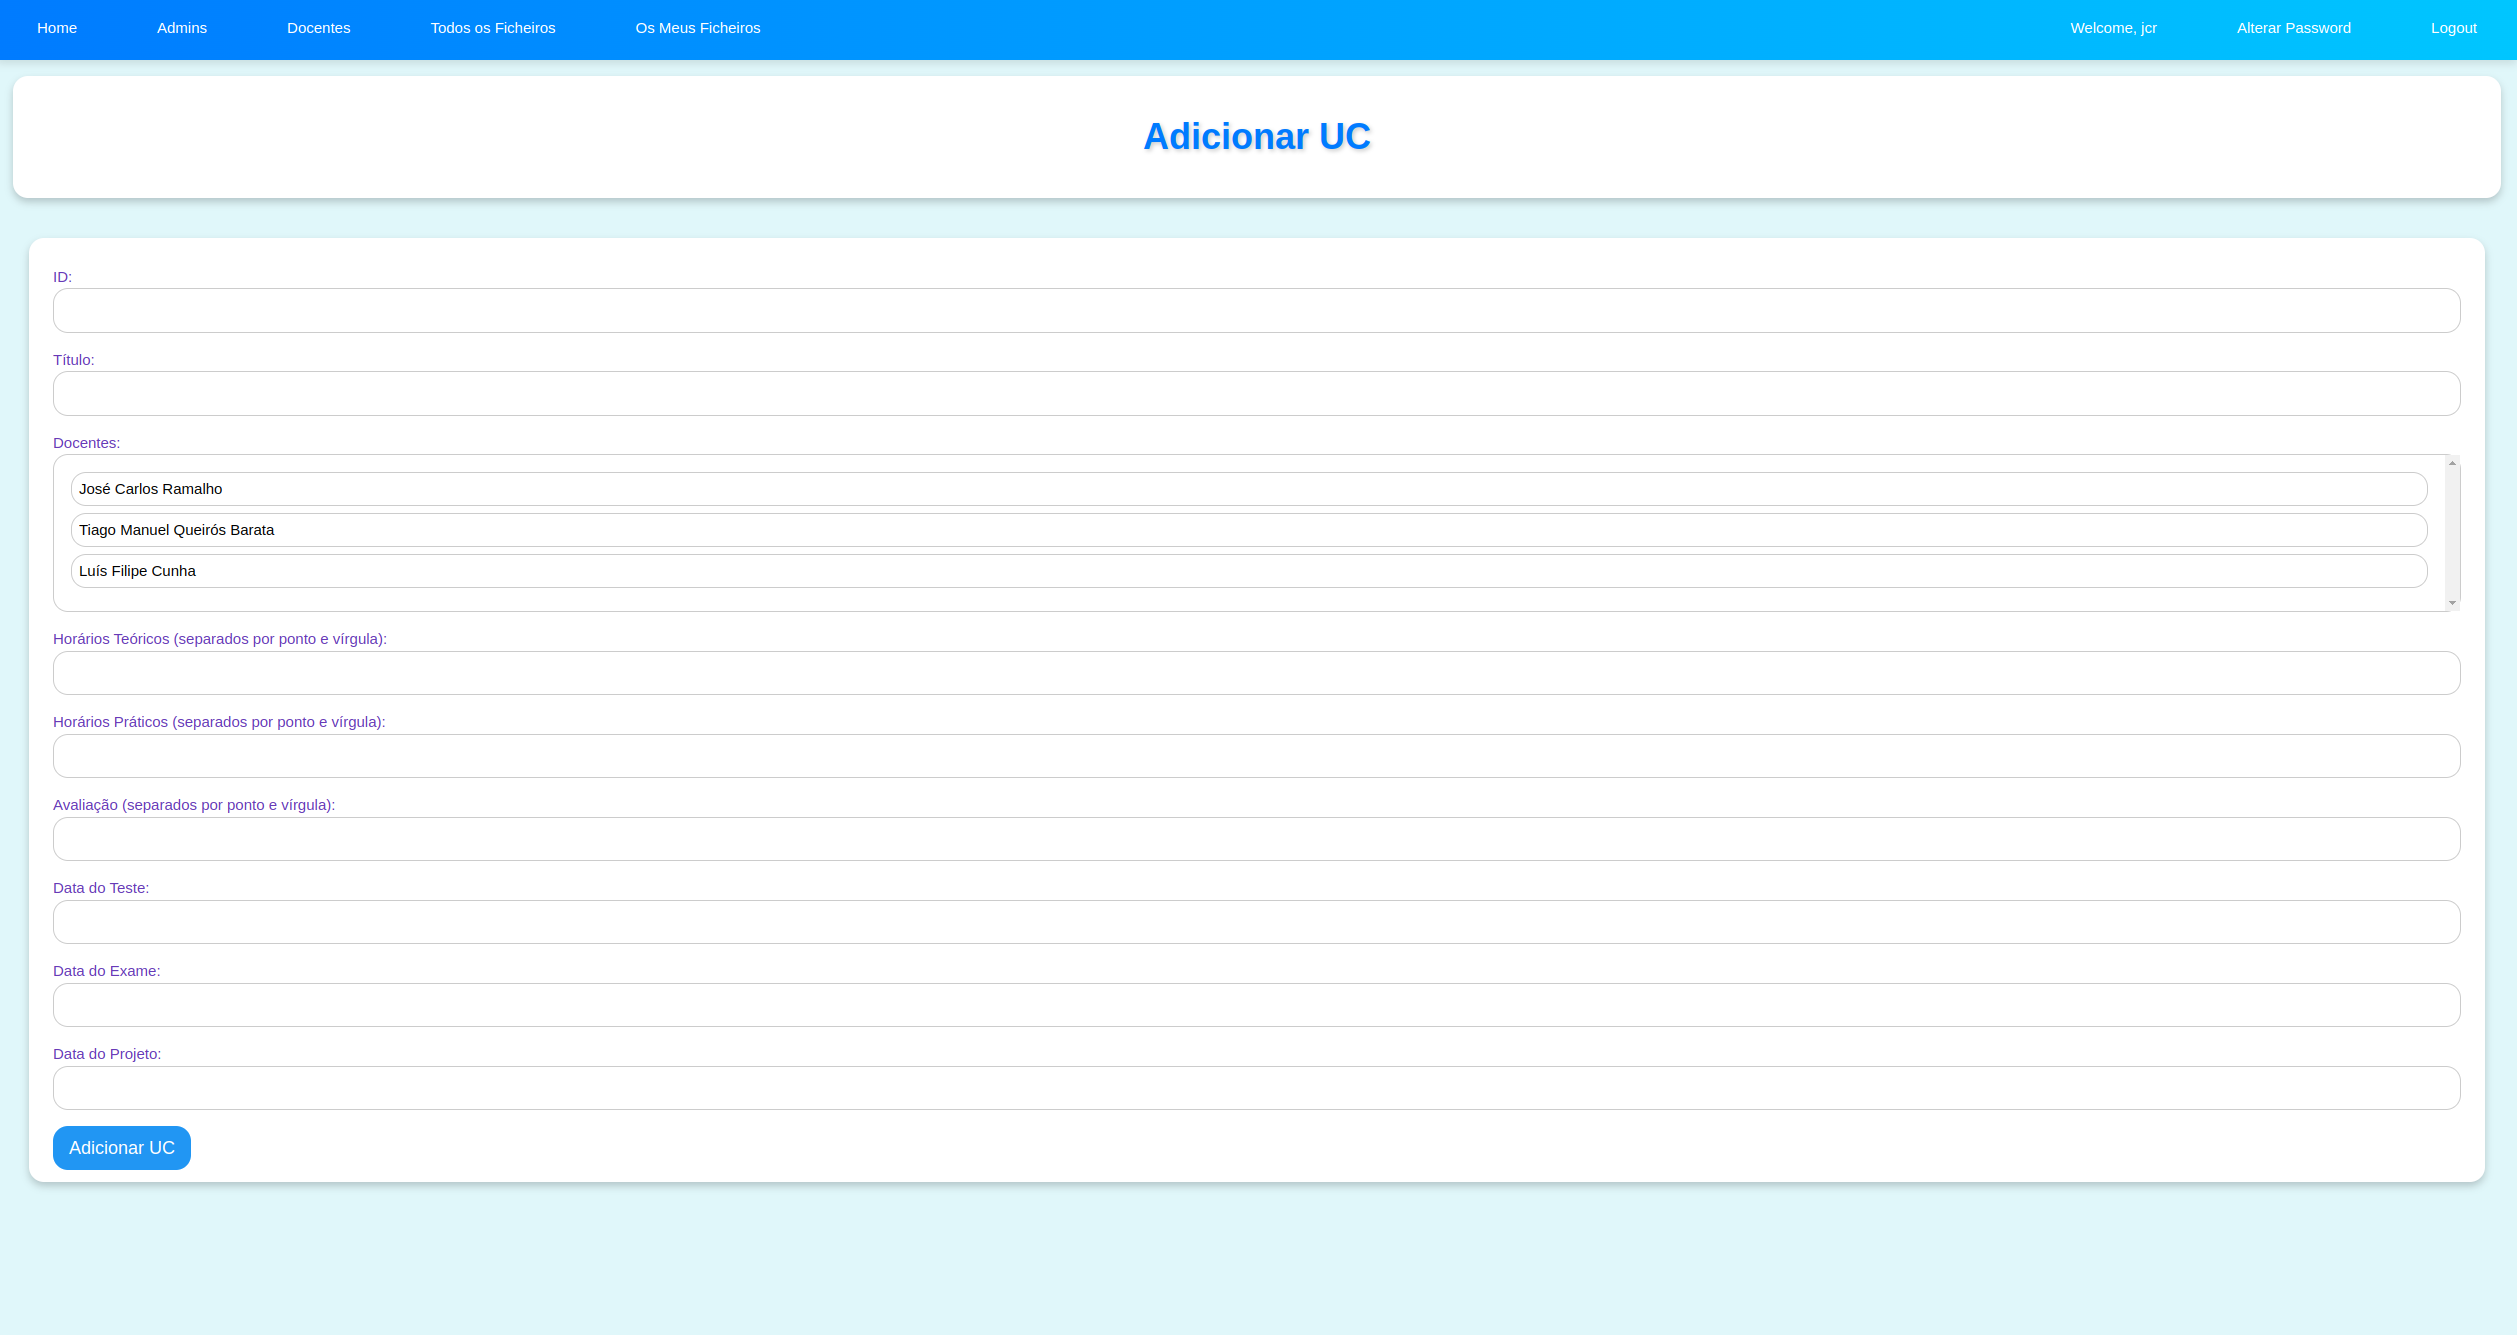
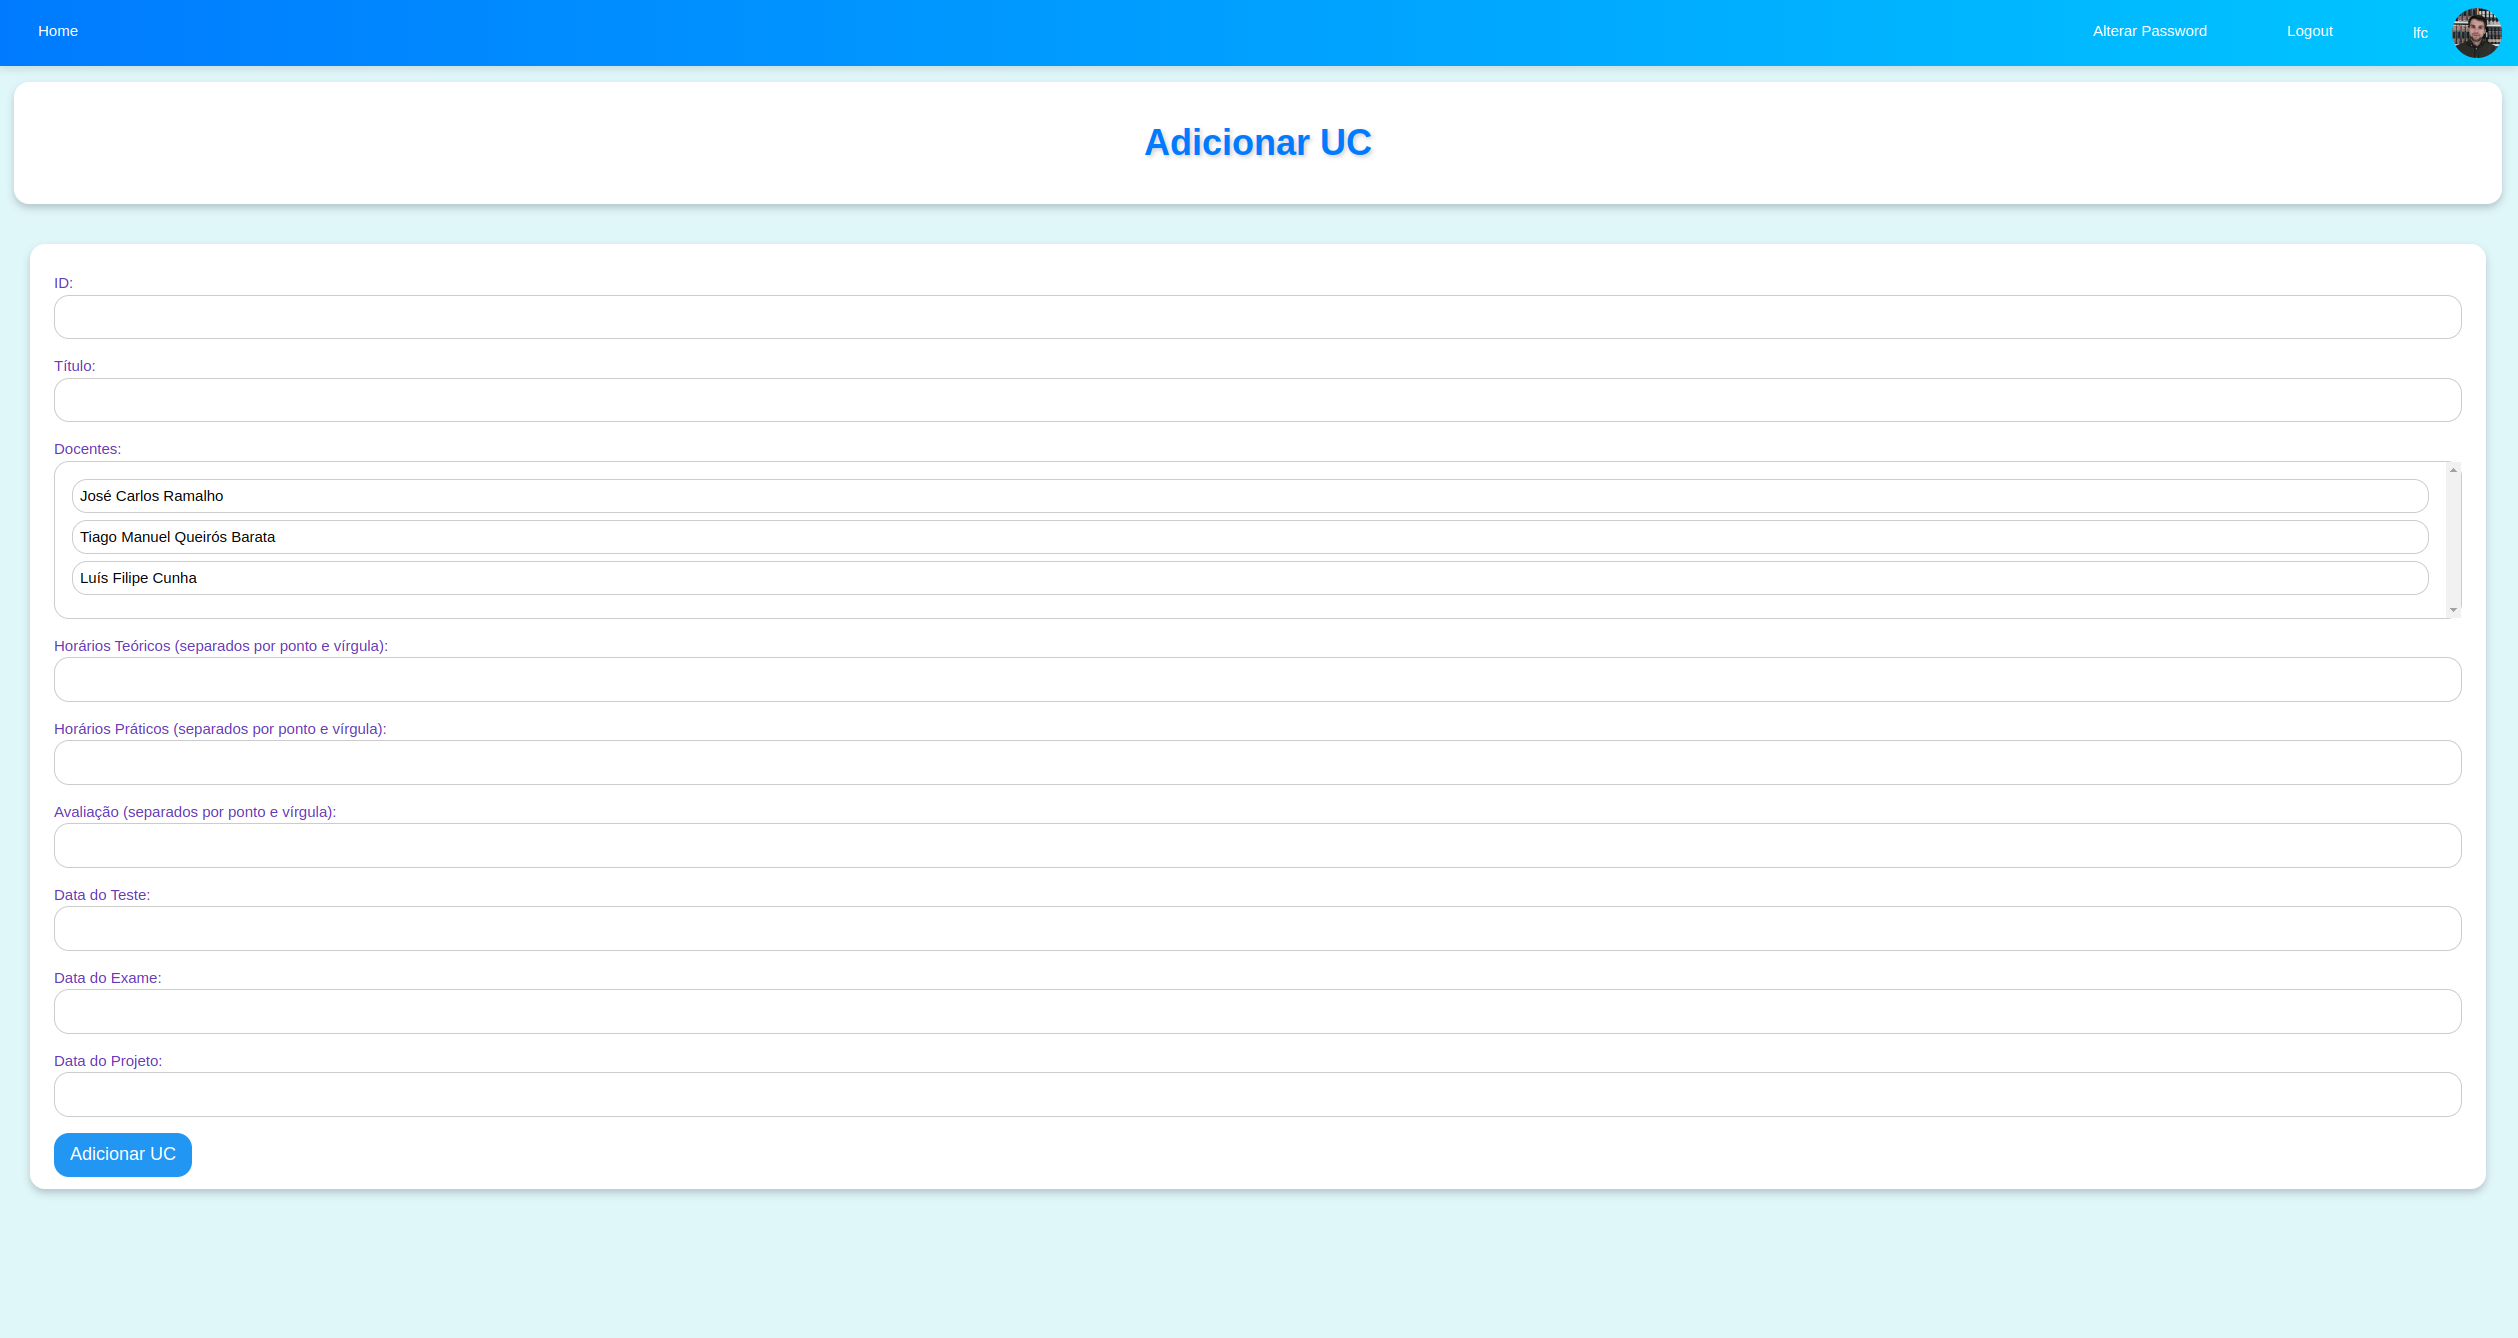
relatorio

diff --git a/html-geradorUCs/routes/files.js b/html-geradorUCs/routes/files.js
@@ -33,7 +33,12 @@ router.get('/', async (req, res) => {
         return;
     }
 
-    const folderName = path.basename(absolutePath);
+    var folderName = 'Pasta ' + relativePath.slice(1);
+    if (relativePath === '' || relativePath === '/') {
+        folderName = 'Os Meus Ficheiros';
+    } else if (relativePath === '../' || relativePath === '..' || relativePath === '/..') {
+        folderName = 'Todos os Ficheiros';
+    }
 
     fs.readdir(absolutePath, { withFileTypes: true }, (err, files) => {
         if (err) {
@@ -46,7 +51,7 @@ router.get('/', async (req, res) => {
             isDirectory: file.isDirectory()
         }));
 
-        res.render('files', { path: relativePath, files: fileList, title: 'Pasta: ' + folderName, isAdmin, username, fotoExt });
+        res.render('files', { path: relativePath, files: fileList, title: folderName, isAdmin, username, fotoExt });
     });
 });
 

diff --git a/html-geradorUCs/routes/users.js b/html-geradorUCs/routes/users.js
@@ -17,13 +17,14 @@ async function verifyUser(req, res, next) {
         res.render('login', { title: 'Login', error });
         return;
     }
-    req.user = { isAdmin, isDocente, username };
+    req.user = { isAdmin, isDocente, username, fotoExt };
     next();
 }
 
 router.get('/', verifyUser, async (req, res) => {
     const role = req.query.role.toLowerCase();
     const { isAdmin, username, fotoExt } = req.user;
+
     if (!isAdmin) {
         return handleError(res, 'Não tem permissões para aceder a esta página.', 403, isAdmin, username, fotoExt);
     }
